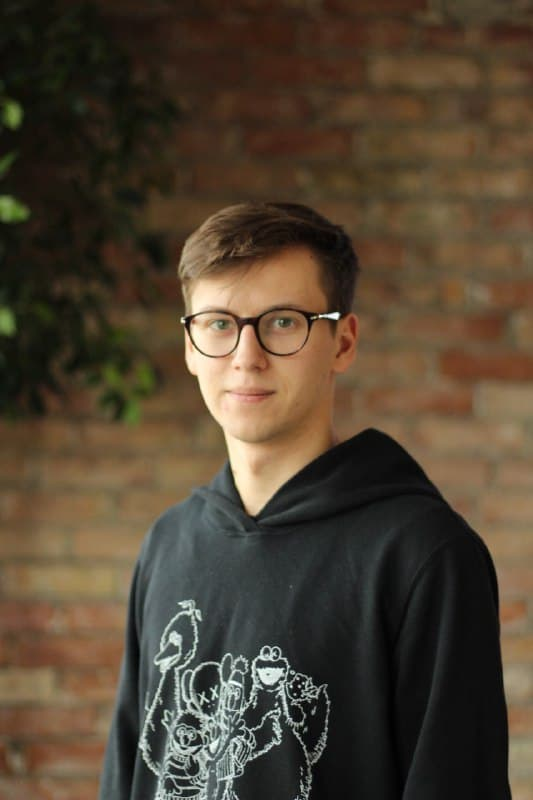
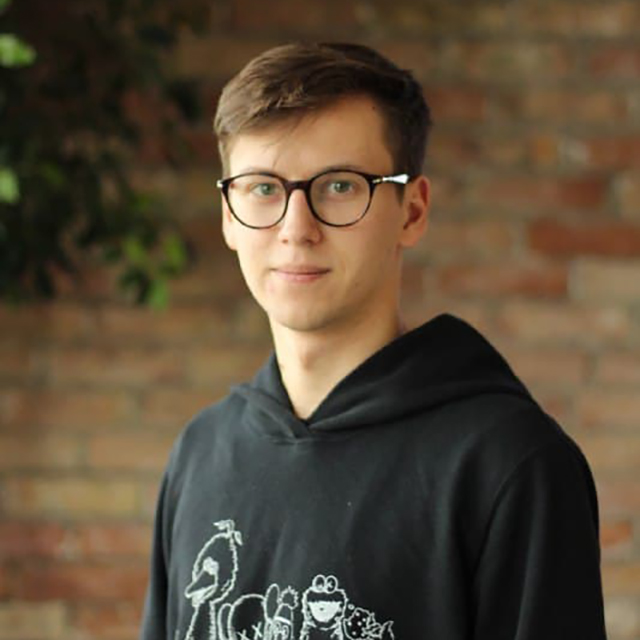
добавлены новые фото модалки-футера и их фокус, ховер

diff --git a/src/partials/modal-ourteam.html b/src/partials/modal-ourteam.html
@@ -11,7 +11,8 @@
                 <ul class="swiper-wrapper">
                     <li class="swiper-slide swiper-card">
                         <div class="swiper-card-firstsection">
-                            <img lang="en" src="./images/alina-bihdan-new-n.jpg" alt="foto of web dev Alina Bihdan" class="swiper-card-img">
+                            <img lang="en" src="./images/alina-bihdan-new-nn.jpg" alt="foto of web dev Alina Bihdan" class="swiper-card-img">
+                            <img lang="en" src="./images/alina-bihdan-new-nn-bw.jpg" alt="foto of web dev Alina Bihdan second" class="swiper-card-img-bw">
                             <p class="swiper-card-name">Алина Бигдан</p>
                             <p class="swiper-card-profession">web developer</p>
                         </div>
@@ -45,6 +46,7 @@
                     <li class="swiper-slide swiper-card">
                         <div class="swiper-card-firstsection">
                             <img lang="en" src="./images/yaroslava-yemets-n.jpg" alt="foto of web dev Yaroslava Emets" class="swiper-card-img">
+                            <img lang="en" src="./images/bw/yaroslava-yemets-bw.jpg" alt="foto of web dev Yaroslava Emets second class="swiper-card-img-bw">
                             <p class="swiper-card-name">Ярослава Емец</p>
                             <p class="swiper-card-profession">web developer</p>
                         </div>
@@ -78,6 +80,7 @@
                     <li class="swiper-slide swiper-card">
                         <div class="swiper-card-firstsection">
                             <img lang="en" src="./images/petro-babiuk.jpg" alt="foto of web dev Petro Babiuk" class="swiper-card-img">
+                            <img lang="en" src="./images/bw/petro-babiuk-bw.jpg" alt="foto of web dev Petro Babiuk second" class="swiper-card-img-bw">
                             <p class="swiper-card-name">Петр Бабюк</p>
                             <p class="swiper-card-profession">web developer</p>
                         </div>
@@ -90,7 +93,6 @@
                                     </svg>
                                 </a>
                             </li>
-                            
                             <li class="socialicon-list-link">
                                 <a lang="en" target="_blank" rel="noopener noreferrer" href="https://github.com/PetroBabiuk" >
                                     <svg class="social-icon">
@@ -110,6 +112,7 @@
                     <li class="swiper-slide swiper-card">
                         <div class="swiper-card-firstsection">
                             <img lang="en" src="./images/nikolay-n.jpg" alt="foto of web dev Nikolay Grechkosiy" class="swiper-card-img">
+                            <img lang="en" src="./images/bw/nikolay-bw.jpg" alt="foto of web dev Nikolay Grechkosiy second" class="swiper-card-img-bw">
                             <p class="swiper-card-name">Николай Гречкосий</p>
                             <p class="swiper-card-profession">web developer</p>
                         </div>
@@ -141,39 +144,8 @@
                     </li>
                     <li class="swiper-slide swiper-card">
                         <div class="swiper-card-firstsection">
-                            <img lang="en" src="./images/sergey-markov-new.jpg" alt="foto of web dev Sergey Markov" class="swiper-card-img">
-                            <p class="swiper-card-name">Сергей Марков</p>
-                            <p class="swiper-card-profession">web developer</p>
-                        </div>
-                        <p class="swiper-card-characteristic">"Общий психолог и креативный мастер разработки. Кулинар своего шедевра."</p>
-                        <ul class="socialicon-list">
-                            <li class="socialicon-list-link">
-                                <a lang="en" href="mailto:1nativefl@gmail.com"  target="_blank" rel="noopener noreferrer">
-                                    <svg class="social-icon">
-                                        <use href="./images/sprite.svg#icon-gmail"></use>
-                                    </svg>
-                                </a>
-                            </li>
-                            
-                            <li class="socialicon-list-link">
-                                <a lang="en" href="https://github.com/Sergey-Markov"  target="_blank" rel="noopener noreferrer">
-                                    <svg class="social-icon">
-                                        <use href="./images/sprite.svg#icon-github"></use>
-                                    </svg>
-                                </a>
-                            </li>
-                            <li class="socialicon-list-link">
-                                <a lang="en" href="https://www.linkedin.com/in/serhii-markov-68ba39203"  target="_blank" rel="noopener noreferrer">
-                                    <svg class="social-icon">
-                                        <use href="./images/sprite.svg#icon-linkedin"></use>
-                                    </svg>
-                                </a>
-                            </li>
-                        </ul>    
-                    </li>
-                    <li class="swiper-slide swiper-card">
-                        <div class="swiper-card-firstsection">
                             <img lang="en" src="./images/kseniya.jpg" alt="foto of web dev Kseniya Chernykh" class="swiper-card-img">
+                            <img lang="en" src="./images/bw/kseniya-bw.jpg" alt="foto of web dev Kseniya Chernykh second" class="swiper-card-img-bw">
                             <p class="swiper-card-name">Оксана Черных</p>
                             <p class="swiper-card-profession">web developer</p>
                         </div>
@@ -206,6 +178,7 @@
                     <li class="swiper-slide swiper-card">
                         <div class="swiper-card-firstsection">
                             <img lang="en" src="./images/kostya-n.jpg" alt="foto of web dev Konstantin Zhukov" class="swiper-card-img">
+                            <img lang="en" src="./images/bw/kostya-bw.jpg" alt="foto of web dev Konstantin Zhukov second" class="swiper-card-img-bw">
                             <p class="swiper-card-name">Константин Жуков</p>
                             <p class="swiper-card-profession">web developer</p>
                         </div>
@@ -238,6 +211,7 @@
                     <li class="swiper-slide swiper-card">
                         <div class="swiper-card-firstsection">
                             <img lang="en" src="./images/maks-sokol-n.jpg" alt="foto of web dev Max Sokolenko" class="swiper-card-img">
+                            <img lang="en" src="./images/bw/maks-sokol-bw.jpg" alt="foto of web dev Max Sokolenko second" class="swiper-card-img-bw">
                             <p class="swiper-card-name">Максим Соколенко</p>
                             <p class="swiper-card-profession">web developer</p>
                         </div>
@@ -260,6 +234,39 @@
                             </li>
                             <li class="socialicon-list-link">
                                 <a lang="en" href="https://www.linkedin.com/in/sokolenkomaks/"  target="_blank" rel="noopener noreferrer">
+                                    <svg class="social-icon">
+                                        <use href="./images/sprite.svg#icon-linkedin"></use>
+                                    </svg>
+                                </a>
+                            </li>
+                        </ul>    
+                    </li>
+                    <li class="swiper-slide swiper-card">
+                        <div class="swiper-card-firstsection">
+                            <img lang="en" src="./images/sergey-markov-new-n.jpg" alt="foto of web dev Sergey Markov" class="swiper-card-img">
+                            <img lang="en" src="./images/sergey-markov-new-n-bw.jpg" alt="foto of web dev Sergey Markov second" class="swiper-card-img-bw">
+                            <p class="swiper-card-name">Сергей Марков</p>
+                            <p class="swiper-card-profession">web developer</p>
+                        </div>
+                        <p class="swiper-card-characteristic">"Общий психолог и креативный мастер разработки. Кулинар своего шедевра."</p>
+                        <ul class="socialicon-list">
+                            <li class="socialicon-list-link">
+                                <a lang="en" href="mailto:1nativefl@gmail.com"  target="_blank" rel="noopener noreferrer">
+                                    <svg class="social-icon">
+                                        <use href="./images/sprite.svg#icon-gmail"></use>
+                                    </svg>
+                                </a>
+                            </li>
+                            
+                            <li class="socialicon-list-link">
+                                <a lang="en" href="https://github.com/Sergey-Markov"  target="_blank" rel="noopener noreferrer">
+                                    <svg class="social-icon">
+                                        <use href="./images/sprite.svg#icon-github"></use>
+                                    </svg>
+                                </a>
+                            </li>
+                            <li class="socialicon-list-link">
+                                <a lang="en" href="https://www.linkedin.com/in/serhii-markov-68ba39203"  target="_blank" rel="noopener noreferrer">
                                     <svg class="social-icon">
                                         <use href="./images/sprite.svg#icon-linkedin"></use>
                                     </svg>

diff --git a/src/sass/layout/_modal-ourteam.scss b/src/sass/layout/_modal-ourteam.scss
@@ -27,6 +27,7 @@
 
 // =====================Card-style====================
 .swiper-card{
+    position: relative;
     display: flex;
     flex-direction: column;
     justify-content: space-between;
@@ -34,8 +35,8 @@
     margin-bottom: 5px;
     width: 250px;
     height: auto;
-    border: 2px rgb(139, 135, 4) solid;
-    border-radius: 10px;
+    border: 3px rgb(139, 135, 4) solid;
+    border-radius: 11px;
     text-align: center;
     background-color: #fff;
     color: black;
@@ -45,9 +46,32 @@
 .swiper-card-img{
   width: 100%;
   max-height: 250px;
-  border-top-left-radius: 10px;
-  border-top-right-radius: 10px;
+  border-top-left-radius: 9px;
+  border-top-right-radius: 8px;
   // margin-bottom: 10px;
+  z-index: 1;
+}
+.swiper-card-img-bw{
+  position: absolute;
+  top:0;
+  width: 100%;
+  max-height: 250px;
+  border-top-left-radius: 9px;
+  border-top-right-radius: 8px;
+  // margin-bottom: 10px;
+  z-index: 2;
+  opacity: 1;
+  transition-property: opacity;
+  transition-duration: 250ms;
+  transition-timing-function: cubic-bezier(0.4, 0, 0.2, 1);
+
+  &:hover,
+  &:focus{
+    opacity: 0;
+  };
+}
+.swiper-slide-active > div.swiper-card-firstsection > img.swiper-card-img-bw{
+  opacity: 0;
 }
 
 .swiper-card-section{
@@ -61,13 +85,13 @@
 .swiper-card-profession{
   color: $film-card-titles-color;
   font-size:smaller;
-  // margin-bottom: 10px;
+  margin-bottom: 10px;
 }
 .swiper-card-characteristic{
   color: $footer-text-color;
   padding-left: 10px;
   padding-right: 10px;
-  // margin-bottom: 10px;
+  margin-bottom: 10px;
 }
 @media screen and (max-height: 654px) {
   .swiper-card-characteristic{
